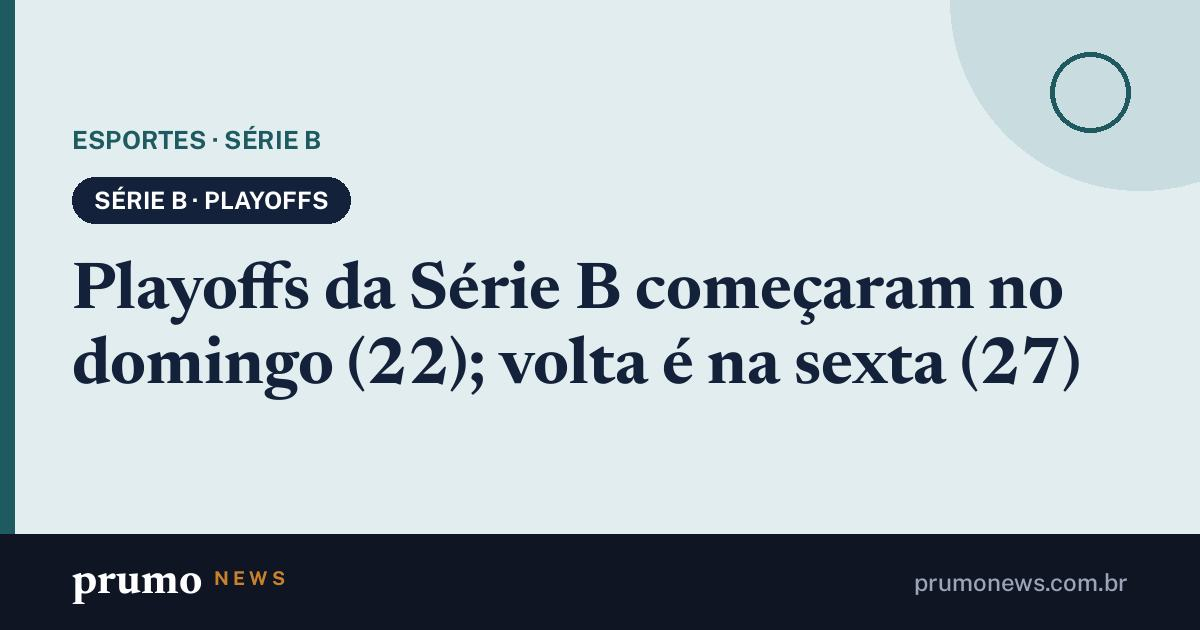
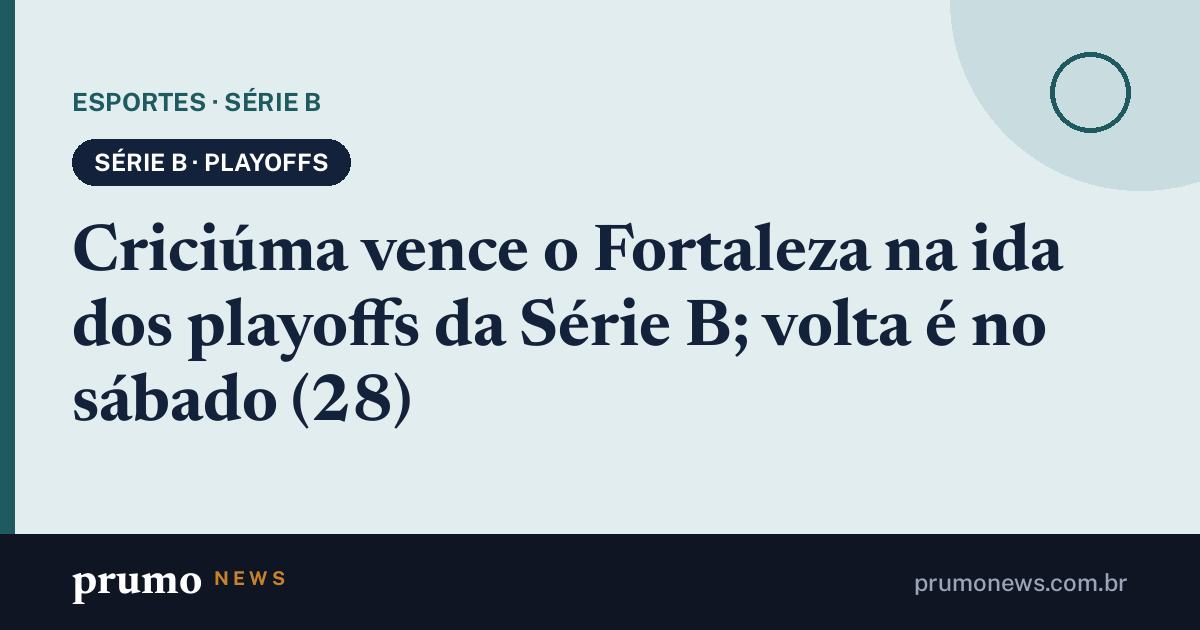
Páginas de compartilhamento 22/11 19h50

Changed region(s): [[0.0617, 0.1206, 0.925, 0.6937]]

diff --git a/m/serie-b-38-rodada-final.html b/m/serie-b-38-rodada-final.html
@@ -3,16 +3,16 @@
 <head>
 <meta charset="utf-8">
 <meta name="viewport" content="width=device-width, initial-scale=1">
-<title>Playoffs da Série B começaram no domingo (22); volta é na sexta (27) · Prumo News</title>
-<meta name="description" content="Criciúma x Fortaleza abriu a ida às 16h; Atlético-GO x Vila Nova joga às 18h30, e a volta é na sexta (27) e no sábado (28).">
-<link rel="canonical" href="https://prumonews.com.br/m/playoffs-da-serie-b-comecaram-no-domingo-22-volta-e-na-sexta-27.html">
+<title>Criciúma vence o Fortaleza na ida dos playoffs da Série B; volta é no sábado (28) · Prumo News</title>
+<meta name="description" content="Criciúma abriu vantagem em casa; Atlético-GO x Vila Nova, em Goiânia, tem a volta na sexta (27), às 20h.">
+<link rel="canonical" href="https://prumonews.com.br/m/criciuma-vence-o-fortaleza-na-ida-dos-playoffs-da-serie-b-volta-e-no.html">
 <meta property="og:type" content="article">
 <meta property="og:site_name" content="Prumo News">
 <meta property="og:locale" content="pt_BR">
-<meta property="og:title" content="Playoffs da Série B começaram no domingo (22); volta é na sexta (27)">
-<meta property="og:description" content="Criciúma x Fortaleza abriu a ida às 16h; Atlético-GO x Vila Nova joga às 18h30, e a volta é na sexta (27) e no sábado (28).">
-<meta property="og:url" content="https://prumonews.com.br/m/playoffs-da-serie-b-comecaram-no-domingo-22-volta-e-na-sexta-27.html">
-<meta property="og:image" content="https://prumonews.com.br/m/og/serie-b-38-rodada-final.jpg?v=fe3caf4c5a">
+<meta property="og:title" content="Criciúma vence o Fortaleza na ida dos playoffs da Série B; volta é no sábado (28)">
+<meta property="og:description" content="Criciúma abriu vantagem em casa; Atlético-GO x Vila Nova, em Goiânia, tem a volta na sexta (27), às 20h.">
+<meta property="og:url" content="https://prumonews.com.br/m/criciuma-vence-o-fortaleza-na-ida-dos-playoffs-da-serie-b-volta-e-no.html">
+<meta property="og:image" content="https://prumonews.com.br/m/og/serie-b-38-rodada-final.jpg?v=9f52eb90f7">
 <meta property="og:image:width" content="1200">
 <meta property="og:image:height" content="630">
 <meta name="twitter:card" content="summary_large_image">
@@ -20,5 +20,5 @@
 <script>location.replace("/#m=serie-b-38-rodada-final")</script>
 <style>body{margin:0;font:16px/1.5 system-ui,sans-serif;background:#0f1522;color:#e8ecf2;display:grid;place-items:center;min-height:100vh;padding:24px;box-sizing:border-box;text-align:center}a{color:#e6b673}</style>
 </head>
-<body><p><a href="/#m=serie-b-38-rodada-final">Playoffs da Série B começaram no domingo (22); volta é na sexta (27)</a><br>Abrindo no Prumo News…</p></body>
+<body><p><a href="/#m=serie-b-38-rodada-final">Criciúma vence o Fortaleza na ida dos playoffs da Série B; volta é no sábado (28)</a><br>Abrindo no Prumo News…</p></body>
 </html>

diff --git a/m/criciuma-vence-o-fortaleza-na-ida-dos-playoffs-da-serie-b-volta-e-no.html b/m/criciuma-vence-o-fortaleza-na-ida-dos-playoffs-da-serie-b-volta-e-no.html
@@ -1,0 +1,24 @@
+<!doctype html>
+<html lang="pt-BR">
+<head>
+<meta charset="utf-8">
+<meta name="viewport" content="width=device-width, initial-scale=1">
+<title>Criciúma vence o Fortaleza na ida dos playoffs da Série B; volta é no sábado (28) · Prumo News</title>
+<meta name="description" content="Criciúma abriu vantagem em casa; Atlético-GO x Vila Nova, em Goiânia, tem a volta na sexta (27), às 20h.">
+<link rel="canonical" href="https://prumonews.com.br/m/criciuma-vence-o-fortaleza-na-ida-dos-playoffs-da-serie-b-volta-e-no.html">
+<meta property="og:type" content="article">
+<meta property="og:site_name" content="Prumo News">
+<meta property="og:locale" content="pt_BR">
+<meta property="og:title" content="Criciúma vence o Fortaleza na ida dos playoffs da Série B; volta é no sábado (28)">
+<meta property="og:description" content="Criciúma abriu vantagem em casa; Atlético-GO x Vila Nova, em Goiânia, tem a volta na sexta (27), às 20h.">
+<meta property="og:url" content="https://prumonews.com.br/m/criciuma-vence-o-fortaleza-na-ida-dos-playoffs-da-serie-b-volta-e-no.html">
+<meta property="og:image" content="https://prumonews.com.br/m/og/serie-b-38-rodada-final.jpg?v=9f52eb90f7">
+<meta property="og:image:width" content="1200">
+<meta property="og:image:height" content="630">
+<meta name="twitter:card" content="summary_large_image">
+<meta name="theme-color" content="#0f1522">
+<script>location.replace("/#m=serie-b-38-rodada-final")</script>
+<style>body{margin:0;font:16px/1.5 system-ui,sans-serif;background:#0f1522;color:#e8ecf2;display:grid;place-items:center;min-height:100vh;padding:24px;box-sizing:border-box;text-align:center}a{color:#e6b673}</style>
+</head>
+<body><p><a href="/#m=serie-b-38-rodada-final">Criciúma vence o Fortaleza na ida dos playoffs da Série B; volta é no sábado (28)</a><br>Abrindo no Prumo News…</p></body>
+</html>

diff --git a/m/defesa-civil-alerta-chuva-grande-sp.html b/m/defesa-civil-alerta-chuva-grande-sp.html
@@ -1,0 +1,22 @@
+<!doctype html>
+<html lang="pt-BR">
+<head>
+<meta charset="utf-8">
+<meta name="viewport" content="width=device-width, initial-scale=1">
+<title>Defesa Civil emite alerta severo de chuva para a Grande SP; são 25 avisos no estado · Prumo News</title>
+<meta name="description" content="O aviso prevê raios, vento e granizo na capital e em cidades vizinhas.">
+<link rel="canonical" href="https://prumonews.com.br/m/defesa-civil-emite-alerta-severo-de-chuva-para-a-grande-sp-sao-25.html">
+<meta property="og:type" content="article">
+<meta property="og:site_name" content="Prumo News">
+<meta property="og:locale" content="pt_BR">
+<meta property="og:title" content="Defesa Civil emite alerta severo de chuva para a Grande SP; são 25 avisos no estado">
+<meta property="og:description" content="O aviso prevê raios, vento e granizo na capital e em cidades vizinhas.">
+<meta property="og:url" content="https://prumonews.com.br/m/defesa-civil-emite-alerta-severo-de-chuva-para-a-grande-sp-sao-25.html">
+<meta property="og:image" content="https://upload.wikimedia.org/wikipedia/commons/thumb/3/30/Enchente_em_Trizidela_do_Vale_%28MA%29.jpg/960px-Enchente_em_Trizidela_do_Vale_%28MA%29.jpg">
+<meta name="twitter:card" content="summary_large_image">
+<meta name="theme-color" content="#0f1522">
+<script>location.replace("/#m=defesa-civil-alerta-chuva-grande-sp")</script>
+<style>body{margin:0;font:16px/1.5 system-ui,sans-serif;background:#0f1522;color:#e8ecf2;display:grid;place-items:center;min-height:100vh;padding:24px;box-sizing:border-box;text-align:center}a{color:#e6b673}</style>
+</head>
+<body><p><a href="/#m=defesa-civil-alerta-chuva-grande-sp">Defesa Civil emite alerta severo de chuva para a Grande SP; são 25 avisos no estado</a><br>Abrindo no Prumo News…</p></body>
+</html>

diff --git a/m/defesa-civil-emite-alerta-severo-de-chuva-para-a-grande-sp-sao-25.html b/m/defesa-civil-emite-alerta-severo-de-chuva-para-a-grande-sp-sao-25.html
@@ -1,0 +1,22 @@
+<!doctype html>
+<html lang="pt-BR">
+<head>
+<meta charset="utf-8">
+<meta name="viewport" content="width=device-width, initial-scale=1">
+<title>Defesa Civil emite alerta severo de chuva para a Grande SP; são 25 avisos no estado · Prumo News</title>
+<meta name="description" content="O aviso prevê raios, vento e granizo na capital e em cidades vizinhas.">
+<link rel="canonical" href="https://prumonews.com.br/m/defesa-civil-emite-alerta-severo-de-chuva-para-a-grande-sp-sao-25.html">
+<meta property="og:type" content="article">
+<meta property="og:site_name" content="Prumo News">
+<meta property="og:locale" content="pt_BR">
+<meta property="og:title" content="Defesa Civil emite alerta severo de chuva para a Grande SP; são 25 avisos no estado">
+<meta property="og:description" content="O aviso prevê raios, vento e granizo na capital e em cidades vizinhas.">
+<meta property="og:url" content="https://prumonews.com.br/m/defesa-civil-emite-alerta-severo-de-chuva-para-a-grande-sp-sao-25.html">
+<meta property="og:image" content="https://upload.wikimedia.org/wikipedia/commons/thumb/3/30/Enchente_em_Trizidela_do_Vale_%28MA%29.jpg/960px-Enchente_em_Trizidela_do_Vale_%28MA%29.jpg">
+<meta name="twitter:card" content="summary_large_image">
+<meta name="theme-color" content="#0f1522">
+<script>location.replace("/#m=defesa-civil-alerta-chuva-grande-sp")</script>
+<style>body{margin:0;font:16px/1.5 system-ui,sans-serif;background:#0f1522;color:#e8ecf2;display:grid;place-items:center;min-height:100vh;padding:24px;box-sizing:border-box;text-align:center}a{color:#e6b673}</style>
+</head>
+<body><p><a href="/#m=defesa-civil-alerta-chuva-grande-sp">Defesa Civil emite alerta severo de chuva para a Grande SP; são 25 avisos no estado</a><br>Abrindo no Prumo News…</p></body>
+</html>
